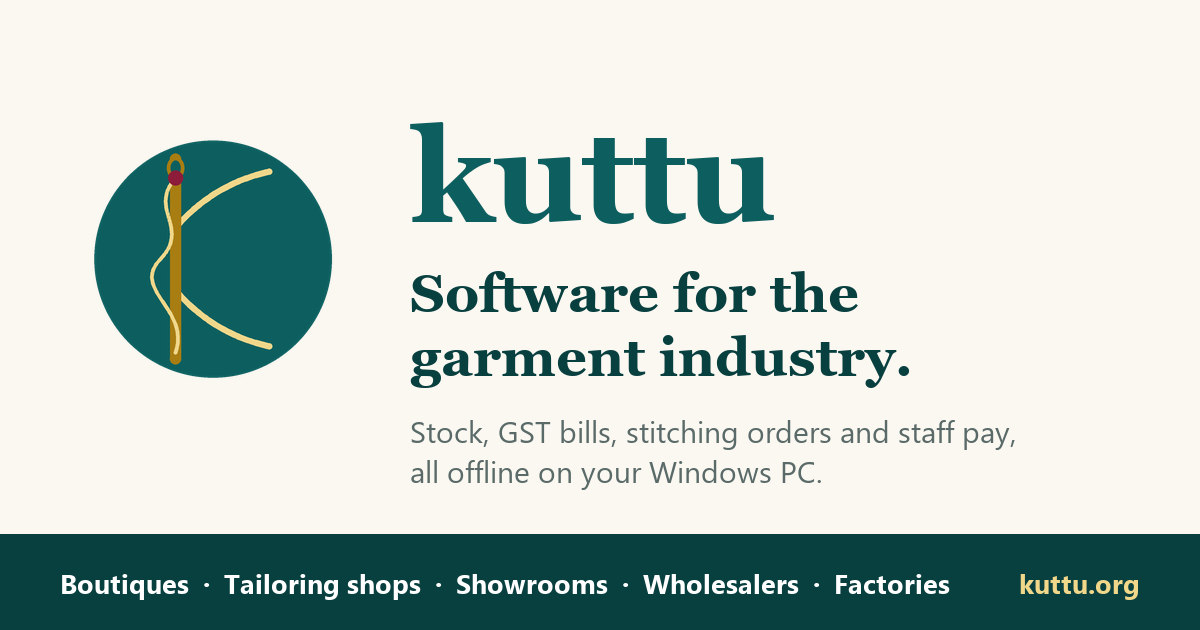
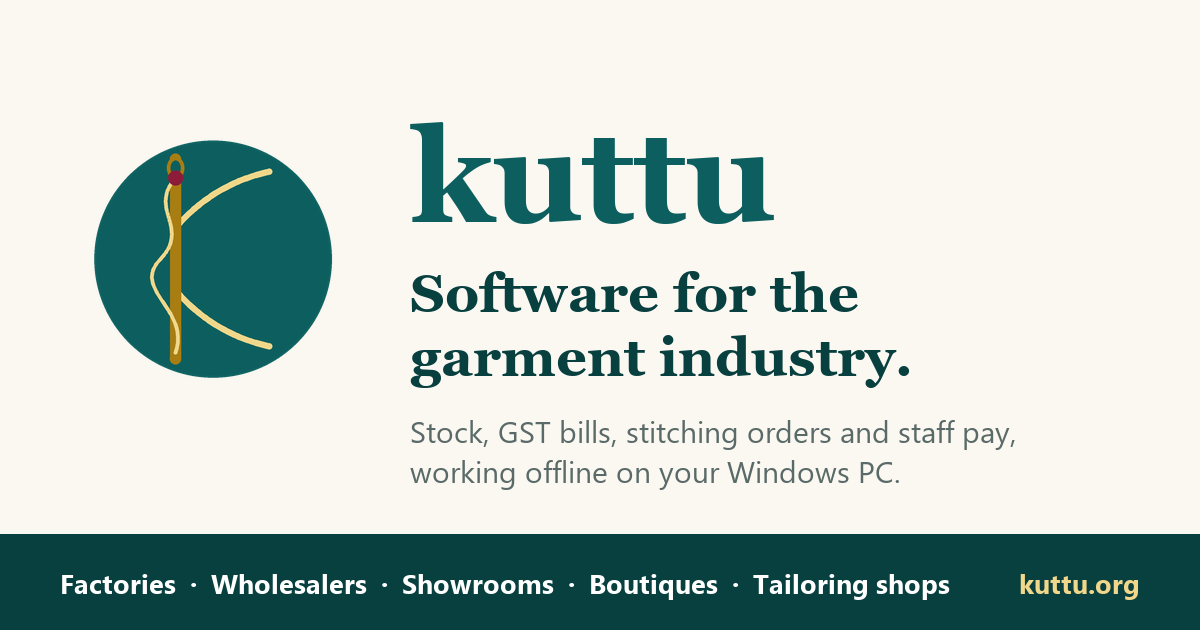
Website: Offline and Online Backup price cards, and the data wording to match
Pricing: two edition cards (Offline, Online Backup) with a comparison table, the
upgrade price, two new FAQ answers (moving to Online Backup later; restoring from
the cloud copy) and "Get Kuttu · from Rs 999" buttons.

Wording that Online Backup would have made untrue is rewritten: the Privacy and
Terms sections now say what is sent (an hourly copy, plus one as Kuttu closes),
how long it is kept (one week, always the newest ten), what it is used for, and
how to have it deleted; the "Do I need internet?" answer no longer contradicts
itself. Terms and Privacy are dated 28 October 2026.

Also: the page description now names wholesalers, "Fully offline" becomes "Works
offline", the share image's bottom strip reads Factories, Wholesalers, Showrooms,
Boutiques, Tailoring shops, and sitemap.xml lastmod is 28 October 2026.

Do not merge until the cloud backup rules (one week, key kind) are deployed.

Changed region(s): [[0.0617, 0.9048, 0.7708, 0.9651], [0.3392, 0.7238, 0.74, 0.7841]]

diff --git a/index.html b/index.html
@@ -4,9 +4,9 @@
 <meta charset="utf-8">
 <meta name="viewport" content="width=device-width,initial-scale=1,viewport-fit=cover">
 <title>Kuttu — Boutique, Tailoring &amp; Garment Shop Software</title>
-<meta name="description" content="Kuttu is offline Windows software for garment factories, showrooms, tailoring shops and boutiques: stock, GST bills, stitching orders, staff pay.">
+<meta name="description" content="Kuttu is offline-ready Windows software for garment factories, wholesalers, showrooms, tailoring shops and boutiques: stock, GST bills, stitching, staff pay.">
 <meta property="og:title" content="Kuttu — Boutique, Tailoring &amp; Garment Shop Software">
-<meta property="og:description" content="Stock, sales, GST bills, stitching orders and staff tracking in one offline Windows suite.">
+<meta property="og:description" content="Stock, sales, GST bills, stitching orders and staff tracking in one Windows suite that works offline.">
 <link rel="canonical" href="https://kuttu.org/">
 <meta property="og:url" content="https://kuttu.org/">
 <meta property="og:type" content="website">
@@ -14,13 +14,13 @@
 <meta property="og:image" content="https://kuttu.org/og-image.png">
 <meta property="og:image:width" content="1200">
 <meta property="og:image:height" content="630">
-<meta property="og:image:alt" content="Kuttu: software for the garment industry. Stock, GST bills, stitching orders and staff pay, offline on Windows.">
+<meta property="og:image:alt" content="Kuttu: software for the garment industry. Stock, GST bills, stitching orders and staff pay, working offline on Windows.">
 <meta name="twitter:card" content="summary_large_image">
 <!-- Structured data: tells search engines that "Kuttu" is this business (name, logo, contacts, social profiles) and that kuttu.org is its website.
      Only facts that are already on this page. If a phone number, email or social link changes, change it here too. -->
 <script type="application/ld+json">
 {"@context":"https://schema.org","@graph":[
- {"@type":"Organization","@id":"https://kuttu.org/#org","name":"Kuttu","url":"https://kuttu.org/","logo":"https://kuttu.org/kuttu_logo_primary.svg","description":"Kuttu makes offline Windows software for the garment industry: factories, wholesalers, showrooms, tailoring shops and boutiques.","email":"enquiry@kuttu.org","telephone":"+917207629246","address":{"@type":"PostalAddress","addressLocality":"Hyderabad","addressCountry":"IN"},"sameAs":["https://www.instagram.com/kuttu_1110/","https://www.threads.com/@kuttu_1110","https://www.facebook.com/share/19YPNL5v3Y/","https://www.youtube.com/@KuttuKuttu-g1b"]},
+ {"@type":"Organization","@id":"https://kuttu.org/#org","name":"Kuttu","url":"https://kuttu.org/","logo":"https://kuttu.org/kuttu_logo_primary.svg","description":"Kuttu makes Windows software that works offline for the garment industry: factories, wholesalers, showrooms, tailoring shops and boutiques.","email":"enquiry@kuttu.org","telephone":"+917207629246","address":{"@type":"PostalAddress","addressLocality":"Hyderabad","addressCountry":"IN"},"sameAs":["https://www.instagram.com/kuttu_1110/","https://www.threads.com/@kuttu_1110","https://www.facebook.com/share/19YPNL5v3Y/","https://www.youtube.com/@KuttuKuttu-g1b"]},
  {"@type":"WebSite","@id":"https://kuttu.org/#site","url":"https://kuttu.org/","name":"Kuttu","alternateName":"Kuttu Application","inLanguage":"en","publisher":{"@id":"https://kuttu.org/#org"}}
 ]}
 </script>
@@ -157,6 +157,36 @@ ul.chk li:before{content:"✓";position:absolute;left:0;color:#fff;background:va
 .price{font:600 3rem var(--serif);color:var(--teal-d)}
 .off{display:inline-block;vertical-align:middle;font:700 .8rem var(--sans);background:var(--red);color:#fff;padding:4px 12px;border-radius:99px;margin-left:6px}
 .ph{display:block;margin-top:8px;font-size:.78rem;font-weight:700;color:var(--red)}
+/* edition price cards and comparison table */
+.sr{position:absolute;width:1px;height:1px;margin:-1px;padding:0;overflow:hidden;clip:rect(0,0,0,0);white-space:nowrap;border:0}
+#pricing .lead b{color:var(--red)}
+.plans{display:grid;grid-template-columns:1fr 1fr;gap:20px;margin-top:34px;align-items:stretch}
+@media(max-width:760px){.plans{grid-template-columns:1fr}}
+.plan{background:#fff;border:1px solid var(--line);border-radius:16px;padding:26px;border-top:5px solid var(--teal);display:flex;flex-direction:column;min-width:0}
+.plan.ob{border-top-color:var(--gold)}
+.plan .badge{align-self:flex-start;font:700 .72rem/1 var(--sans);letter-spacing:.08em;text-transform:uppercase;background:var(--gold-l);color:var(--teal-d);padding:6px 12px;border-radius:99px;margin-bottom:12px}
+.plan .sub{color:var(--mute);margin:.35rem 0 .9rem}
+.plan .price s{font-size:1.5rem;color:var(--mute);font-weight:500}
+.plan .until{margin:2px 0 6px;font-weight:700;color:var(--red)}
+.plan ul.chk{margin:12px 0 20px}
+.plan .acts{margin-top:auto;display:flex;gap:10px;flex-wrap:wrap}
+.cmp-h{margin-top:46px}
+.cmpwrap{margin-top:16px;overflow-x:auto;border:1px solid var(--line);border-radius:16px;background:#fff}
+.cmp{width:100%;border-collapse:collapse}
+.cmp th,.cmp td{padding:12px 14px;text-align:center;vertical-align:middle;border-bottom:1px solid var(--line);font-size:.93rem;line-height:1.45}
+.cmp tbody th[scope=row]{text-align:left;font-weight:600;color:var(--ink);width:44%}
+.cmp thead th{background:var(--teal-d);color:#fff;font:700 1rem var(--serif);border-bottom:0}
+.cmp thead th:first-child{text-align:left;font:700 .74rem var(--sans);letter-spacing:.12em;text-transform:uppercase;color:var(--gold-l)}
+.cmp thead th small{display:block;margin-top:2px;font:700 .85rem var(--sans);color:var(--gold-l)}
+.cmp thead th.ob{background:#0b4b4b}
+.cmp tbody .grp th{background:var(--teal-l);color:var(--teal-d);text-align:left;font:700 .74rem var(--sans);letter-spacing:.12em;text-transform:uppercase;padding-block:9px}
+.cmp tbody td:nth-child(3){background:#fdf8e8}
+.cmp tbody tr:last-child th,.cmp tbody tr:last-child td{border-bottom:0}
+.cmp .yes{display:inline-grid;place-items:center;width:22px;height:22px;border-radius:50%;background:var(--teal);color:#fff;font-size:.72rem;font-weight:700}
+.cmp .no{color:#a9a396;font-weight:700}
+.cmp s{color:var(--mute)}
+.cmpnote{margin:12px 2px 0;font-size:.86rem;color:var(--mute)}
+@media(max-width:560px){.cmp th,.cmp td{padding:10px 8px;font-size:.84rem}.cmp tbody th[scope=row]{width:40%}.cmp thead th{font-size:.9rem}}
 /* faq */
 details{background:#fff;border:1px solid var(--line);border-radius:12px;padding:16px 20px;margin-bottom:10px}
 summary{cursor:pointer;font-weight:700;color:var(--teal-d)}
@@ -386,18 +416,18 @@ footer h4{font:600 1.05rem var(--serif);color:#fff;margin:0 0 12px}
   <div class="kticker"><div class="ktrack">
    <div class="kgrp">
     <span class="kitem"><b>Run your whole garment business from one screen.</b> Stock, GST bills, stitching orders and staff pay.</span>
-    <span class="kitem"><b>Fully offline.</b> Your records stay in files on your own PC.</span>
+    <span class="kitem"><b>Works offline.</b> Your records stay in files on your own PC.</span>
     <span class="kitem"><b>Speaks your language.</b> English, हिन्दी and తెలుగు on every screen.</span>
     <span class="kitem"><b>Eleven modules, one Home screen.</b> Sales, stitching, stock, salary and reports.</span>
    </div>
    <div class="kgrp" aria-hidden="true">
     <span class="kitem"><b>Run your whole garment business from one screen.</b> Stock, GST bills, stitching orders and staff pay.</span>
-    <span class="kitem"><b>Fully offline.</b> Your records stay in files on your own PC.</span>
+    <span class="kitem"><b>Works offline.</b> Your records stay in files on your own PC.</span>
     <span class="kitem"><b>Speaks your language.</b> English, हिन्दी and తెలుగు on every screen.</span>
     <span class="kitem"><b>Eleven modules, one Home screen.</b> Sales, stitching, stock, salary and reports.</span>
    </div>
   </div></div>
-  <a class="btn gold" href="#pricing">Get Kuttu &middot; &#8377;999</a></div>
+  <a class="btn gold" href="#pricing">Get Kuttu &middot; from &#8377;999</a></div>
 </div></section>
 
 <section id="about"><div class="wrap">
@@ -406,7 +436,7 @@ footer h4{font:600 1.05rem var(--serif);color:#fff;margin:0 0 12px}
  <p class="lead">Kuttu is a small team in Hyderabad building one Windows suite for the garment industry (manufacturing units, wholesalers, garment showrooms, tailoring shops and boutiques): stock, GST bills, stitching orders, staff pay and reports in one place. We built it around how a working boutique really runs, and we keep improving it by listening to the shop owners and tailors who use it.</p>
  <div class="grid">
   <div class="card"><h3>Built around real shops</h3><p>Measurements, garment styles, advances, trial dates, cutting slips, piecework and salary: the things a garment business actually deals with every day, in the order it deals with them.</p></div>
-  <div class="card"><h3>Your data stays yours</h3><p>Kuttu runs on your own PC, works without internet and keeps your records in files you can see, back up and move. We don't hold your shop's data.</p></div>
+  <div class="card"><h3>Your data stays yours</h3><p>Kuttu runs on your own PC, works without internet and keeps your records in files you can see, back up and move. With the Offline edition we hold none of your shop's data; with Online Backup we hold only the backup copy you send us, so you can restore it.</p></div>
   <div class="card"><h3>In your language</h3><p>Every screen can be switched between English, हिन्दी and తెలుగు, so your staff can work in the language they read best.</p></div>
   <div class="card"><h3>Help you can reach</h3><p>Message or call us. We can help you install, set up and get comfortable in Telugu, Hindi or English, and bug fixes are free for license holders.</p></div>
  </div>
@@ -734,7 +764,7 @@ footer h4{font:600 1.05rem var(--serif);color:#fff;margin:0 0 12px}
  <span class="eyebrow">Your data</span>
  <h2>Runs on your PC. Stays on your PC.</h2>
  <div class="grid">
-  <div class="card"><h3>Fully offline</h3><p>No internet needed to run your shop. Everything is stored in files on your own computer.</p></div>
+  <div class="card"><h3>Works offline</h3><p>No internet needed to run your shop. Everything is stored in files on your own computer. Only the Online Backup edition uses the internet, to send its hourly backup copy.</p></div>
   <div class="card"><h3>Safe saves &amp; backups</h3><p>Every change is saved at once and a backup copy is made after every save (at least the last 20 are kept). Backup / Restore takes you back to an earlier copy, and a power cut in the middle of a save won't corrupt your records.</p></div>
   <div class="card"><h3>You choose where data lives</h3><p>Keep your data on any folder or drive — not only C:. Change it any time in System Settings; Kuttu copies your records to the new place and never overwrites data that is already there.</p></div>
   <div class="card"><h3>Back up once a week</h3><p>Copy the data folder to a pen drive or an external drive each week. Backups on the same PC don't help if the PC itself is lost.</p></div>
@@ -744,18 +774,84 @@ footer h4{font:600 1.05rem var(--serif);color:#fff;margin:0 0 12px}
 </div></section>
 
 <section id="pricing"><div class="wrap">
- <span class="eyebrow">Pricing</span><h2>One price. The whole suite.</h2>
- <div class="two">
-  <div class="role"><h3>Kuttu Application — full suite</h3>
-   <div class="price"><s style="font-size:1.5rem;color:var(--mute);font-weight:500">₹24,999</s> ₹999 <span class="off">96% off</span></div><p style="margin:0 0 6px;font-weight:700;color:var(--red)">Offer price valid only till 31 December 2026.</p><p style="color:var(--mute)">One-year license · all eleven modules</p>
-   <p style="margin:0 0 14px;font-weight:700;color:var(--teal-d);font-size:.92rem">📈 Includes Consolidated Analytics — reports and charts for the whole shop. <a href="#analytics">See how</a></p>
-   <div style="display:flex;gap:10px;flex-wrap:wrap">
-    <a class="btn" href="https://wa.me/917207629246?text=Hi%20Kuttu%2C%20I%27d%20like%20to%20buy%20the%20Kuttu%20Application" target="_blank" rel="noopener">Chat on WhatsApp</a>
+ <span class="eyebrow">Pricing</span><h2>Two editions. The same whole suite.</h2>
+ <p class="lead">Both editions have all eleven modules, one PC and one year. Online Backup adds an hourly copy of your data in the Kuttu cloud. <b>Offer prices are valid only till 31 December 2026.</b></p>
+ <div class="plans">
+  <article class="plan">
+   <h3>Offline</h3>
+   <p class="sub">Your data stays on your PC.</p>
+   <div class="price"><s>₹24,999</s> ₹999 <span class="off">96% off</span></div>
+   <p class="until">Offer price valid only till 31 December 2026.</p>
+   <ul class="chk">
+    <li>All eleven modules, one Home screen</li>
+    <li>Works fully offline, no internet needed</li>
+    <li>Backup copy on your PC after every save</li>
+    <li>One PC · one year · free bug-fix updates</li>
+    <li><b>Consolidated Analytics</b> included: reports and charts for the whole shop. <a href="#analytics">See how</a></li>
+   </ul>
+   <div class="acts">
+    <a class="btn" href="https://wa.me/917207629246?text=Hi%20Kuttu%2C%20I%27d%20like%20to%20buy%20the%20Kuttu%20Application%20-%20Offline%20edition" target="_blank" rel="noopener">Chat on WhatsApp</a>
     <a class="btn ghost" href="tel:+917207629246">Call +91 72076 29246</a></div>
-   <span style="display:block;margin-top:8px;font-size:.82rem;color:var(--mute)">To buy, message or call us. We take your details, confirm the payment and send your download link and license key.</span>
    <!-- Kept for when online payment is connected (the sign-in script looks for it): hidden for now. -->
    <a id="buyNow" href="#" data-pay="PAYMENT_LINK_URL_HERE" style="display:none">Buy now</a>
-   <p style="margin:14px 0 0;font-size:.9rem">Licensed for <b>one PC for one year</b> — activated with a key tied to that PC. Bug-fix updates are free for license holders. <a href="#faq">Details</a></p></div>
+  </article>
+  <article class="plan ob">
+   <span class="badge">Offline + cloud backup</span>
+   <h3>Online Backup</h3>
+   <p class="sub">Everything in Offline, plus an hourly copy in the Kuttu cloud.</p>
+   <div class="price"><s>₹50,000</s> ₹4,999 <span class="off">90% off</span></div>
+   <p class="until">Offer price valid only till 31 December 2026.</p>
+   <ul class="chk">
+    <li>Everything in the Offline edition</li>
+    <li>Hourly backup copy in the Kuttu cloud, while Kuttu is open</li>
+    <li>Cloud copies kept for one week</li>
+    <li>Back up now and Restore from backup</li>
+    <li>One PC · one year · one key, application included</li>
+   </ul>
+   <div class="acts">
+    <a class="btn" href="https://wa.me/917207629246?text=Hi%20Kuttu%2C%20I%27d%20like%20to%20buy%20the%20Kuttu%20Application%20-%20Online%20Backup%20edition" target="_blank" rel="noopener">Chat on WhatsApp</a>
+    <a class="btn ghost" href="tel:+917207629246">Call +91 72076 29246</a></div>
+  </article>
+ </div>
+
+ <h3 class="cmp-h">Compare the two editions</h3>
+ <div class="cmpwrap"><table class="cmp">
+ <caption class="sr">What is included in the Offline and Online Backup editions of Kuttu</caption>
+ <thead><tr><th scope="col">What you get</th><th scope="col">Offline<small>₹999</small></th><th scope="col" class="ob">Online Backup<small>₹4,999</small></th></tr></thead>
+ <tbody>
+ <tr class="grp"><th colspan="3" scope="colgroup">Price and license</th></tr>
+ <tr><th scope="row">Offer price (valid only till 31 December 2026)</th><td>₹999</td><td>₹4,999</td></tr>
+ <tr><th scope="row">Regular price</th><td><s>₹24,999</s></td><td><s>₹50,000</s></td></tr>
+ <tr><th scope="row">License</th><td>One PC · one year · one key</td><td>One PC · one year · one key (application included)</td></tr>
+ <tr><th scope="row">Upgrading later</th><td>Upgrade to Online Backup for ₹4,000</td><td><span class="no" aria-hidden="true">—</span><span class="sr">Not included</span></td></tr>
+ <tr class="grp"><th colspan="3" scope="colgroup">The Kuttu suite (the same in both)</th></tr>
+ <tr><th scope="row">All eleven modules from one Home screen</th><td><span class="yes" aria-hidden="true">✓</span><span class="sr">Included</span></td><td><span class="yes" aria-hidden="true">✓</span><span class="sr">Included</span></td></tr>
+ <tr><th scope="row">Stock, sales and GST bills</th><td><span class="yes" aria-hidden="true">✓</span><span class="sr">Included</span></td><td><span class="yes" aria-hidden="true">✓</span><span class="sr">Included</span></td></tr>
+ <tr><th scope="row">Stitching orders with measurements and chits</th><td><span class="yes" aria-hidden="true">✓</span><span class="sr">Included</span></td><td><span class="yes" aria-hidden="true">✓</span><span class="sr">Included</span></td></tr>
+ <tr><th scope="row">Staff attendance, piecework and salary</th><td><span class="yes" aria-hidden="true">✓</span><span class="sr">Included</span></td><td><span class="yes" aria-hidden="true">✓</span><span class="sr">Included</span></td></tr>
+ <tr><th scope="row">Consolidated Analytics: reports and charts for the whole shop</th><td><span class="yes" aria-hidden="true">✓</span><span class="sr">Included</span></td><td><span class="yes" aria-hidden="true">✓</span><span class="sr">Included</span></td></tr>
+ <tr><th scope="row">Up to five companies, each with its own GST number</th><td><span class="yes" aria-hidden="true">✓</span><span class="sr">Included</span></td><td><span class="yes" aria-hidden="true">✓</span><span class="sr">Included</span></td></tr>
+ <tr><th scope="row">English, हिन्दी and తెలుగు screens</th><td><span class="yes" aria-hidden="true">✓</span><span class="sr">Included</span></td><td><span class="yes" aria-hidden="true">✓</span><span class="sr">Included</span></td></tr>
+ <tr><th scope="row">Free bug-fix updates</th><td><span class="yes" aria-hidden="true">✓</span><span class="sr">Included</span></td><td><span class="yes" aria-hidden="true">✓</span><span class="sr">Included</span></td></tr>
+ <tr class="grp"><th colspan="3" scope="colgroup">Your data and backups</th></tr>
+ <tr><th scope="row">Data kept on your own PC, in a folder you choose</th><td><span class="yes" aria-hidden="true">✓</span><span class="sr">Included</span></td><td><span class="yes" aria-hidden="true">✓</span><span class="sr">Included</span></td></tr>
+ <tr><th scope="row">Backup copy on your PC after every save (at least the last 20 kept)</th><td><span class="yes" aria-hidden="true">✓</span><span class="sr">Included</span></td><td><span class="yes" aria-hidden="true">✓</span><span class="sr">Included</span></td></tr>
+ <tr><th scope="row">Hourly backup copy in the Kuttu cloud, while Kuttu is open</th><td><span class="no" aria-hidden="true">—</span><span class="sr">Not included</span></td><td><span class="yes" aria-hidden="true">✓</span><span class="sr">Included</span></td></tr>
+ <tr><th scope="row">Cloud copies kept for one week</th><td><span class="no" aria-hidden="true">—</span><span class="sr">Not included</span></td><td><span class="yes" aria-hidden="true">✓</span><span class="sr">Included</span></td></tr>
+ <tr><th scope="row">Back up now and Restore from backup</th><td><span class="no" aria-hidden="true">—</span><span class="sr">Not included</span></td><td><span class="yes" aria-hidden="true">✓</span><span class="sr">Included</span></td></tr>
+ <tr><th scope="row">If your PC is lost or damaged</th><td>Restore from your own pen-drive or external-drive copy</td><td>Restore from the cloud copy (or your own copy)</td></tr>
+ <tr><th scope="row">Internet</th><td>Not needed</td><td>Only for the hourly cloud backup</td></tr>
+ </tbody>
+ </table></div>
+ <p class="cmpnote">Prices are for one PC for one year and are valid only till 31 December 2026. Licensed for <b>one PC for one year</b>, activated with a key tied to that PC. <a href="#faq">Details</a></p>
+
+ <div class="two">
+  <div class="role"><h3>How to buy</h3>
+   <p style="color:var(--mute)">Message or call us. We take your details, confirm the payment and send your download link and license key.</p>
+   <p style="margin:0 0 12px;font-weight:600">Tell us which edition you want, Offline or Online Backup.</p>
+   <div style="display:flex;gap:10px;flex-wrap:wrap">
+    <a class="btn" href="https://wa.me/917207629246?text=Hi%20Kuttu%2C%20I%27d%20like%20to%20buy%20the%20Kuttu%20Application" target="_blank" rel="noopener">Chat on WhatsApp</a>
+    <a class="btn ghost" href="tel:+917207629246">Call +91 72076 29246</a></div></div>
   <div class="role s"><h3>Already purchased?</h3>
    <p style="color:var(--mute)">We send you a <b>private download link</b> for the installer (Windows 10 / 11, about 230 MB) and a license key made for your PC. Check your spam folder too.</p>
    <p style="margin:0 0 12px;font-weight:600">Lost your link or need it again? Message or call us and we will send it.</p>
@@ -764,21 +860,23 @@ footer h4{font:600 1.05rem var(--serif);color:#fff;margin:0 0 12px}
     <a class="btn ghost" href="tel:+917207629246">Call us</a></div></div>
  </div>
  <div class="card" style="margin-top:20px"><h3>System requirements</h3>
-  <p style="margin-top:8px"><b>Windows 10 or 11 (64-bit)</b> · about <b>1 GB</b> free disk space · installs for your Windows user, <b>no administrator rights needed</b> · works without internet.<br>
+  <p style="margin-top:8px"><b>Windows 10 or 11 (64-bit)</b> · about <b>1 GB</b> free disk space · installs for your Windows user, <b>no administrator rights needed</b> · works without internet (the Online Backup edition needs internet only for its hourly backup).<br>
   Optional: a printer (bills, chits, salary slips), WhatsApp on the PC (to send bills), a USB barcode scanner.</p></div>
 </div></section>
 
 <section id="faq" class="alt"><div class="wrap" style="max-width:820px">
  <span class="eyebrow">FAQ</span><h2 style="margin-bottom:28px">Questions shop owners ask</h2>
  <details><summary>Is Kuttu only for boutiques?</summary><p>No. Kuttu is for the whole garment industry: factories, wholesalers, garment showrooms, saree shops, readymade stores, tailoring units and boutiques. It covers stock, GST bills, stitching orders, who cut and stitched what, attendance, salary and reports. It does not yet do challans, e-way bills or production planning, so if you need those, ask us before you buy.</p></details>
- <details><summary>Where is my data stored? Is it safe?</summary><p>On your own PC, in local files — in a folder <b>you choose</b>, on any drive. The first time you open Kuttu it asks where to keep your data, and you can change it later in System Settings, which also shows where your data, backups and logs are. Nothing is uploaded, saves are atomic, and backups are kept automatically.</p></details>
- <details><summary>Do I need internet?</summary><p>No. Kuttu runs fully offline. Internet is only used if you choose to share a bill through WhatsApp.</p></details>
+ <details><summary>Where is my data stored? Is it safe?</summary><p>On your own PC, in local files — in a folder <b>you choose</b>, on any drive. The first time you open Kuttu it asks where to keep your data, and you can change it later in System Settings, which also shows where your data, backups and logs are. With the Offline edition nothing is uploaded; the Online Backup edition also sends a backup copy to the Kuttu cloud every hour while Kuttu is open, and once more as it closes. Saves are atomic, and backups are kept automatically.</p></details>
+ <details><summary>Do I need internet?</summary><p>No. Kuttu works fully offline: billing, stock, stitching orders and staff records need no internet. Internet is used only if you choose to share a bill through WhatsApp and, in the Online Backup edition, to send the hourly backup copy.</p></details>
  <details><summary>Can I use it for only sarees, or only stitching?</summary><p>Yes. Each module opens on its own from Home, so use only the ones your shop needs.</p></details>
  <details><summary>Can I bill under more than one GST number?</summary><p>Yes. In Shop Settings you can add up to five companies, each with its own GSTIN, address, phone and bill numbers. Each stock item belongs to one company, so scanning its barcode bills it under the right GST number. If one basket holds items from two companies, Kuttu prints one invoice for each. A company with no GSTIN charges no GST. Stitching orders go under the company you choose as the default. The GST Summary can show one company or all of them. A shop with one company sees no change.</p></details>
  <details><summary>How many PCs does one license cover?</summary><p>One license covers one PC. If you want to run Kuttu on another computer, that needs its own license.</p></details>
  <details><summary>How do I buy, and what happens after I pay?</summary><p>Message us on WhatsApp or call <a href="tel:+917207629246">+91 72076 29246</a>. We take your shop details, confirm the payment and send you a private download link for the installer. If you lose the link, contact us and we will send it again. After installing, Kuttu asks you to activate it — see the next question.</p></details>
  <details><summary>How does activation work?</summary><p>When you first open Kuttu it shows your PC's Machine ID with Email and WhatsApp buttons. Send it to us, and we reply with a license key made for that PC. Paste the key in and Kuttu is activated. A key only works on the PC it was made for, and your license runs for one year from the day we issue it.</p></details>
  <details><summary>What happens after one year? How do I renew?</summary><p>About 60 days before your license ends, Kuttu shows a red line that scrolls across the Home screen with the date and the days left. To renew, send us your Machine ID again (it's in Home &rarr; System Settings), and we reply with a new key. In System Settings, click <b>Renew License</b>, paste the key and Activate — your data and settings stay exactly as they are. If a license ends before you renew, Kuttu asks for a new key when it opens; your records are never deleted or locked away. For the renewal price, <a href="https://wa.me/917207629246?text=Hi%20Kuttu%2C%20I%27d%20like%20to%20know%20the%20renewal%20price" target="_blank" rel="noopener">contact us on WhatsApp</a> or <a href="#contact">use the contact section</a>.</p></details>
+ <details><summary>Can I start with Offline and move to Online Backup later?</summary><p>Yes. Message us on WhatsApp or call <a href="tel:+917207629246">+91 72076 29246</a> and ask for the upgrade, which is ₹4,000. We reply with a new license key made for your PC. In Home &rarr; System Settings click <b>Renew License</b>, paste the key and Activate. You do not reinstall anything, your data and settings stay as they are, and the cloud backup lines then appear in Kuttu.</p></details>
+ <details><summary>How do I restore my data from the cloud copy?</summary><p>This is for the Online Backup edition. Close the other Kuttu programs, open Home &rarr; System Settings, click <b>Restore from backup</b> and pick a copy from the list. Kuttu first saves a safety copy of your current data, then puts the chosen copy back; close and reopen Kuttu afterwards. If your license has ended, the hourly backup and Restore from backup pause until you renew with a new key; your records on the PC are never deleted or locked.</p></details>
  <details><summary>Can my staff use it in Hindi or Telugu?</summary><p>Yes. Every screen can be switched between English, हिन्दी and తెలుగు from the Home screen. Bills and messages sent to your customers stay in English.</p></details>
  <details><summary>What do I need to run Kuttu?</summary><p>A Windows 10 or 11 (64-bit) PC with about 1 GB of free space. You don't need administrator rights or internet. A printer, WhatsApp on the PC and a USB barcode scanner are optional.</p></details>
  <details><summary>What if I change my PC or reinstall Windows?</summary><p>The license is tied to the PC. If the computer changes, Kuttu shows a new Machine ID — send it to us and we reply with a new key. Copy your data folder across to keep your records.</p></details>
@@ -797,18 +895,18 @@ footer h4{font:600 1.05rem var(--serif);color:#fff;margin:0 0 12px}
   <div class="kticker"><div class="ktrack">
    <div class="kgrp">
     <span class="kitem"><b>Run your whole garment business from one screen.</b> Stock, GST bills, stitching orders and staff pay.</span>
-    <span class="kitem"><b>Fully offline.</b> Your records stay in files on your own PC.</span>
+    <span class="kitem"><b>Works offline.</b> Your records stay in files on your own PC.</span>
     <span class="kitem"><b>Speaks your language.</b> English, हिन्दी and తెలుగు on every screen.</span>
     <span class="kitem"><b>Eleven modules, one Home screen.</b> Sales, stitching, stock, salary and reports.</span>
    </div>
    <div class="kgrp" aria-hidden="true">
     <span class="kitem"><b>Run your whole garment business from one screen.</b> Stock, GST bills, stitching orders and staff pay.</span>
-    <span class="kitem"><b>Fully offline.</b> Your records stay in files on your own PC.</span>
+    <span class="kitem"><b>Works offline.</b> Your records stay in files on your own PC.</span>
     <span class="kitem"><b>Speaks your language.</b> English, हिन्दी and తెలుగు on every screen.</span>
     <span class="kitem"><b>Eleven modules, one Home screen.</b> Sales, stitching, stock, salary and reports.</span>
    </div>
   </div></div>
-  <a class="btn gold" href="#pricing">Get Kuttu &middot; &#8377;999</a></div>
+  <a class="btn gold" href="#pricing">Get Kuttu &middot; from &#8377;999</a></div>
 </div></section>
 
 <section id="careers" class="alt"><div class="wrap" style="text-align:center">
@@ -833,7 +931,7 @@ footer h4{font:600 1.05rem var(--serif);color:#fff;margin:0 0 12px}
   <a data-mail class="btn ghost" href="mailto:enquiry@kuttu.org">Or email us</a></div>
  <div class="social"><a href="https://www.instagram.com/kuttu_1110/" target="_blank" rel="noopener" aria-label="Instagram"><svg viewBox="0 0 24 24" aria-hidden="true"><path d="M12 2.2c3.2 0 3.6 0 4.8.1 3.3.1 4.8 1.7 4.9 4.9.1 1.3.1 1.6.1 4.8s0 3.6-.1 4.8c-.1 3.2-1.7 4.8-4.9 4.9-1.3.1-1.6.1-4.8.1s-3.6 0-4.8-.1c-3.3-.1-4.8-1.7-4.9-4.9C2.2 15.6 2.2 15.2 2.2 12s0-3.6.1-4.8C2.4 3.9 4 2.4 7.2 2.3 8.4 2.2 8.8 2.2 12 2.2zM12 0C8.7 0 8.3 0 7.1.1 2.7.3.3 2.7.1 7.1 0 8.3 0 8.7 0 12s0 3.7.1 4.9c.2 4.4 2.6 6.8 7 7C8.3 24 8.7 24 12 24s3.7 0 4.9-.1c4.4-.2 6.8-2.6 7-7 .1-1.2.1-1.6.1-4.9s0-3.7-.1-4.9c-.2-4.4-2.6-6.8-7-7C15.7 0 15.3 0 12 0zm0 5.8a6.2 6.2 0 100 12.4 6.2 6.2 0 000-12.4zM12 16a4 4 0 110-8 4 4 0 010 8zm6.4-11.8a1.4 1.4 0 100 2.9 1.4 1.4 0 000-2.9z"/></svg><span>Instagram</span></a><a href="https://www.threads.com/@kuttu_1110" target="_blank" rel="noopener" aria-label="Threads"><svg viewBox="0 0 24 24" aria-hidden="true"><text x="12" y="19" text-anchor="middle" font-size="22" font-weight="700" font-family="Arial,sans-serif">@</text></svg><span>Threads</span></a><a href="https://www.facebook.com/share/19YPNL5v3Y/" target="_blank" rel="noopener" aria-label="Facebook"><svg viewBox="0 0 24 24" aria-hidden="true"><path d="M13.5 21v-7.5h2.6l.4-3h-3V8.6c0-.9.3-1.5 1.5-1.5h1.6V4.4c-.3 0-1.2-.1-2.3-.1-2.3 0-3.9 1.4-3.9 4v2.2H7.8v3h2.6V21h3.1z"/></svg><span>Facebook</span></a><a href="https://www.youtube.com/@KuttuKuttu-g1b" target="_blank" rel="noopener" aria-label="YouTube"><svg viewBox="0 0 24 24" aria-hidden="true"><path fill-rule="evenodd" d="M4.5 5h15A3.5 3.5 0 0 1 23 8.5v7a3.5 3.5 0 0 1-3.5 3.5h-15A3.5 3.5 0 0 1 1 15.5v-7A3.5 3.5 0 0 1 4.5 5zM10 9v6l5.5-3z"/></svg><span>YouTube</span></a><a href="https://wa.me/917207629246" target="_blank" rel="noopener" aria-label="WhatsApp"><svg viewBox="0 0 24 24" aria-hidden="true"><path d="M17.5 14.4c-.3-.1-1.8-.9-2-1s-.5-.1-.7.1-.8 1-1 1.2-.4.2-.6.1c-.3-.1-1.3-.5-2.4-1.5-.9-.8-1.5-1.8-1.7-2.1s0-.5.1-.6l.4-.5c.1-.2.2-.3.3-.5s0-.4 0-.5-.7-1.7-1-2.3c-.2-.6-.5-.5-.7-.5h-.6c-.2 0-.5.1-.8.4s-1 1-1 2.5 1.1 2.9 1.2 3.1c.1.2 2.1 3.2 5.1 4.5 2.6 1 3.1.8 3.7.8.6-.1 1.8-.7 2-1.4s.3-1.3.2-1.4-.3-.2-.6-.3zM12 21.8a9.8 9.8 0 01-5-1.4l-.4-.2-3.7 1 1-3.6-.2-.4A9.8 9.8 0 1112 21.8zM12 0a12 12 0 00-10.3 18L0 24l6.2-1.6A12 12 0 1012 0z"/></svg><span>WhatsApp</span></a></div>
  <div class="share" id="share">
-  <img src="og-image.png" width="1200" height="630" loading="lazy" alt="The Kuttu share card: Software for the garment industry. Stock, GST bills, stitching orders and staff pay, all offline on your Windows PC.">
+  <img src="og-image.png" width="1200" height="630" loading="lazy" alt="The Kuttu share card: Software for the garment industry. Stock, GST bills, stitching orders and staff pay, working offline on your Windows PC.">
   <div><h3>Share Kuttu</h3>
    <p>Know a shop owner who could use it? Send them kuttu.org. This is the picture that goes with the link when you share it.</p>
    <div class="srow"><button class="btn ghost" type="button" id="shareCopy">Copy link</button><span class="smsg" id="shareMsg" role="status" aria-live="polite"></span></div></div>
@@ -866,14 +964,14 @@ footer h4{font:600 1.05rem var(--serif);color:#fff;margin:0 0 12px}
 
 <section id="terms"><div class="wrap" style="max-width:820px">
  <span class="eyebrow">Terms and Conditions</span><h2 style="margin-bottom:8px">How buying and using Kuttu works</h2>
- <p style="color:var(--mute);margin:0 0 18px">In plain language. Last updated 23 October 2026. By buying or using Kuttu you agree to these terms.</p>
+ <p style="color:var(--mute);margin:0 0 18px">In plain language. Last updated 28 October 2026. By buying or using Kuttu you agree to these terms.</p>
  <ul class="chk">
   <li><b>What you are buying:</b> a license to use the Kuttu Application, a Windows desktop suite for the garment industry, made for factories, wholesalers, garment showrooms, tailoring shops and boutiques, on one PC for one year, from the date we send you your download link and license key.</li>
   <li><b>One license, one PC, one year:</b> a license covers one PC for one year, activated with a key made for that PC. If your computer changes, send us the new Machine ID and we reply with a new key. Please do not copy, share or resell the software or your key, and do not try to get around the activation. After the year, the app asks for a new key; the renewal price is available on request.</li>
-  <li><b>Price and payment:</b> the price is the one shown on this website when you buy. The ₹999 offer price is valid only till 31 December 2026; offers can change or end. We confirm your payment with you before sending the download link and key.</li>
+  <li><b>Price and payment:</b> the price is the one shown on this website when you buy. The ₹999 (Offline) and ₹4,999 (Online Backup) offer prices are valid only till 31 December 2026; offers can change or end. We confirm your payment with you before sending the download link and key.</li>
   <li><b>No refunds:</b> because the purchase covers a one-year license that we activate for your PC, there are no refunds. Please ask us any questions before you buy.</li>
   <li><b>Updates:</b> bug fixes are free for customers who have bought a license; we send the new installer and it keeps your data and your license. New modules are paid add-ons, and we tell you the price before you decide. Updates never install by themselves.</li>
-  <li><b>Your data and backups:</b> Kuttu keeps your shop's records on your own PC. They are yours, and we do not hold them, so we cannot recover them if they are lost. Please back up the data folder every week to a pen drive or an external drive.</li>
+  <li><b>Your data and backups:</b> Kuttu keeps your shop's records on your own PC. They are yours. With the Offline edition we do not hold them, so we cannot recover them if they are lost; please back up the data folder every week to a pen drive or an external drive. With the Online Backup edition, Kuttu also sends a backup copy of your records to our cloud storage every hour while Kuttu is open (and once more as it closes) and keeps the copies for one week, so you can bring them back with Restore from backup. The hourly backup and Restore from backup work while your license is valid. Please still keep your own weekly copy as well.</li>
   <li><b>Support:</b> message or call us on WhatsApp or phone, or write to us. We can help you install and set up in Telugu, Hindi or English.</li>
   <li><b>Your website account:</b> an account is needed only to keep your profile on this website. You can delete it any time from <b>My profile</b>. See the privacy note below for how we handle your details.</li>
   <li><b>Changes:</b> we may update these terms. The date at the top shows the latest version.</li>
@@ -889,12 +987,12 @@ footer h4{font:600 1.05rem var(--serif);color:#fff;margin:0 0 12px}
   <li><b>Deleting your account:</b> sign in, open <b>My profile</b> and choose <b>Delete my account</b> at the bottom. This removes your sign-in and the profile you saved. Records of purchases (payment reference, date and amount) are kept for our accounts and support; write to enquiry@kuttu.org to have those removed as well. A Kuttu license already installed on your PC keeps working.</li>
   <li><b>Visit counting:</b> only if you tap Yes on the small notice, and only once a Google Analytics ID has been set up, Kuttu counts visits to this website (which pages are opened, from which country and device type, and how people found us) using Google Analytics. It does not collect your name, phone number or email for this, and no advertising is built on it. If you tap No, nothing is loaded. To change your answer, clear this site's data in your browser.</li>
   <li><b>Why:</b> to create your account, let you buy Kuttu, send your download and license key, and give you support. Nothing else.</li>
-  <li><b>Who else sees it:</b> the sign-in service that stores accounts (Google Firebase), the payment provider that takes your payment, and the email service that delivers your download link. We do not see your card or UPI details, and we do not sell or rent your details to anyone.</li>
+  <li><b>Who else sees it:</b> the sign-in service that stores accounts (Google Firebase), the payment provider that takes your payment, the email service that delivers your download link and, with the Online Backup edition only, the cloud storage service that holds your backup copies (Supabase). We do not see your card or UPI details, and we do not sell or rent your details to anyone.</li>
   <li><b>If you apply for a job:</b> we collect your name, email, mobile number, the role, any message you write and the resume you upload. Only our hiring team can open them. We use them only to consider you for a role, and you can ask us to delete them at any time.</li>
-  <li><b>Your shop data is not ours:</b> Kuttu runs on your own PC. Your stock, bills, customers and staff records stay on that PC and are never sent to us.</li>
+  <li><b>Your shop data is yours, not ours:</b> Kuttu runs on your own PC. With the Offline edition your stock, bills, customers and staff records stay on that PC and are never sent to us. With the Online Backup edition, Kuttu also sends a backup copy of those records to our private cloud storage every hour while Kuttu is open, and once more as Kuttu closes. We keep the copies for one week (and always the newest ten) and use them only so you can restore your records. To have your cloud copies deleted, message us on WhatsApp.</li>
   <li><b>Your choices:</b> you can ask us to correct or delete your account details at any time — message us on WhatsApp at <a href="https://wa.me/917207629246?text=Hi%20Kuttu%2C%20please%20delete%20my%20account%20details" target="_blank" rel="noopener">+91 72076 29246</a>. We keep purchase and license records as long as needed for support and tax records.</li>
  </ul>
- <p style="margin:18px 0 0;color:var(--mute);font-size:.85rem">Last updated 22 October 2026.</p>
+ <p style="margin:18px 0 0;color:var(--mute);font-size:.85rem">Last updated 28 October 2026.</p>
 </div></section>
 
 <footer>
